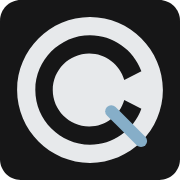
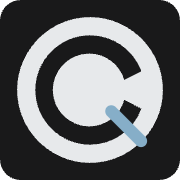
feat(ui): subtle chassis tones and brighter dark panes (#1613)
* feat(ui): add subtle chassis tones and brighten dark panes

* fix(ui): align logo assets and caret contrast with brighter panes

---------

diff --git a/frontend/src/index.css b/frontend/src/index.css
@@ -303,7 +303,7 @@ h3, .prose :where(h3) { letter-spacing: -0.014em; }
      surface and it fails with the measured ratio. */
   --color-background: #0f0f10;          /* Workspace — navigation and AI rail */
   --color-foreground: #e7e9eb;          /* Graphite ink */
-  --color-card: #161617;                /* Pane — softened document and route content */
+  --color-card: #19191a;                /* Pane — shared document, left pane and context rail */
   --color-card-foreground: #e7e9eb;
   --color-card-elevated: #1b1b1d;       /* Raised — popovers and dialogs */
   /* Steel — the single brand AND interaction accent: brand mark, primary
@@ -329,31 +329,13 @@ h3, .prose :where(h3) { letter-spacing: -0.014em; }
   /* Measured against the WORST surface it lands on (the elevated pane),
      not the darkest — sidebar counts, hints and secondary labels inherit it. */
   --color-muted-foreground: #a0a4aa;
-  /* THREE state fills, not one. Until 2026-08-30 `--color-accent`,
-     `--color-secondary` and `--color-muted` were all #1c1d1d, so hover,
-     selected, pressed and a quiet field fill were the same value: a critique
-     measured ΔE-OK 0.0000 between them, which in a 40-row page tree means a
-     hovered row is indistinguishable from the selected one. Each state now has
-     its own rung above the pane (#161617): hover 1.070:1, pressed 1.138:1,
-     selected 1.258:1 — and selection still adds its interactive outline on top.
-     `--color-muted` stays at the hover value on purpose: it is a resting FIELD
-     fill, not a state.
-
-     WIDENED 2026-08-31. The first split shipped pressed at #1e1f21, one step off
-     hover: ΔE-OK 0.0101 at 1.024:1, which a critique could not tell apart from
-     hover in rendered 13px rows. The guard asserted ordering and distinctness
-     but no perceptual floor, so an invisible step passed. Steps are now ΔE-OK
-     0.0292 / 0.0241 / 0.0321, each at or above Paper's equivalent.
-
-     Widening downward was blocked by two other tokens, and the fix was to move
-     THEM rather than hug a floor: at #282a2e the old --color-border-interactive
-     (#71717a) measured 2.97:1 — the edge that IS the selected state, under
-     1.4.11's 3:1 — and --color-status-inactive (#8b8f99) measured 4.44:1. Both
-     were lifted; see their declarations. The dark ladder was compressed because
-     its edge token was too dark, not because the state values were wrong. */
-  --color-accent: #1c1d1d;             /* hover    — 1.070:1 on Pane */
-  --color-pressed: #212226;            /* :active  — 1.138:1 */
-  --color-selected: #282a2e;           /* current destination — 1.258:1 */
+  /* Separate hover, press and selection fills. The brighter Pane (2026-09-12)
+     needs a small hover lift to preserve the visible state step; press and
+     selection retain their existing values and interactive outline.
+     Muted remains a resting field fill, independent of the state ladder. */
+  --color-accent: #1d1e1e;             /* hover — 1.051:1 on Pane */
+  --color-pressed: #212226;            /* :active — 1.106:1 */
+  --color-selected: #282a2e;           /* current destination — 1.222:1 */
   --color-accent-foreground: #e7e9eb;
   /* Semantic aliases — ALWAYS var() references onto the status tokens below,
      never raw values. ~100 callsites say text-success / text-warning /
@@ -528,6 +510,17 @@ h3, .prose :where(h3) { letter-spacing: -0.014em; }
      A notch blacker than the chrome so the card detaches without going
      crushed OLED. */
   --app-chassis: #09090a;
+  --app-chassis-highlight: #101011;
+  --app-chassis-shade: #070708;
+  /* Owner exception (2026-09-12): a restrained multi-grey wash on the outer
+     frame only. One continuous image; panes and controls remain flat. */
+  --app-chassis-tones: linear-gradient(
+    115deg,
+    var(--app-chassis-highlight) 0%,
+    var(--app-chassis) 32%,
+    var(--app-chassis-shade) 68%,
+    var(--app-chassis) 100%
+  );
   /* The login page's own ground. Identical to the chassis here: Graphite's
      composite under the halo measures 7.25:1 and never forced a split. Paper's
      does — see the token there and `@utility login-backdrop`. */
@@ -972,6 +965,8 @@ html[data-dyslexia-spacing="true"] :where(.prose) :where(pre, code) {
      are unaffected: they carry hover and selection with ink and a Steel marker
      line, never a fill. */
   --app-chassis: #ededed;
+  --app-chassis-highlight: #f3f3f3;
+  --app-chassis-shade: #e8e8e8;
   /* The login page keeps the ground its halo was measured against. Canvas left
      it behind on 2026-08-31: at #E8E8E8 the halo composited to #DDDFDF and the
      hero's 18px lead paragraph measured 4.013:1, under 1.4.3's 4.5. This value
@@ -1138,6 +1133,7 @@ html[data-dyslexia-spacing="true"] :where(.prose) :where(pre, code) {
 
 @utility app-chassis {
   background: var(--app-chassis);
+  background-image: var(--app-chassis-tones);
   /* Destinations live on the left chassis. A matching inset there stacked a
      second grey gutter beside the 48px rail; keep the inset on the end and
      bottom so the workspace card still floats off the right and floor. */
@@ -1223,7 +1219,8 @@ html[data-dyslexia-spacing="true"] :where(.prose) :where(pre, code) {
    not a chrome band beside a reading pane. The detached context rail is the
    same composition: one pane, its own first row, no band. */
 @utility app-header {
-  background: var(--app-chassis);
+  /* Let the chassis wash continue through the header without restarting. */
+  background: transparent;
   border-color: var(--color-border);
   height: var(--app-header-height);
   min-height: var(--app-header-height);

diff --git a/frontend/src/app-shell-layout.test.ts b/frontend/src/app-shell-layout.test.ts
@@ -110,10 +110,22 @@ describe('Inset shell tokens', () => {
       ['graphite', darkBlock],
       ['paper', lightBlock],
     ] as const) {
-      expect(
-        contrast(tokenHex(block, '--color-card'), tokenHex(block, '--app-chassis')),
-        `${theme}: the unlined workspace card needs a readable value step`,
-      ).toBeGreaterThanOrEqual(1.08);
+      for (const stop of ['--app-chassis-highlight', '--app-chassis', '--app-chassis-shade']) {
+        expect(
+          contrast(tokenHex(block, '--color-card'), tokenHex(block, stop)),
+          `${theme}: the unlined workspace card needs a readable value step at ${stop}`,
+        ).toBeGreaterThanOrEqual(1.08);
+      }
+    }
+  });
+
+  it('keeps navigation labels and focus indicators readable across the chassis wash', () => {
+    for (const block of [darkBlock, lightBlock]) {
+      for (const stop of ['--app-chassis-highlight', '--app-chassis', '--app-chassis-shade']) {
+        const ground = tokenHex(block, stop);
+        expect(contrast(tokenHex(block, '--color-muted-foreground'), ground), stop).toBeGreaterThanOrEqual(4.5);
+        expect(contrast(tokenHex(block, '--color-primary'), ground), stop).toBeGreaterThanOrEqual(3);
+      }
     }
   });
 
@@ -170,15 +182,6 @@ describe('Inset shell utilities', () => {
     expect(nav).toContain('w-[var(--app-nav-rail-width)]');
   });
 
-  it('completes the canvas frame across the top while panel toolbars keep Chrome', () => {
-    const appHeader = extractBlock(css, '@utility app-header {');
-    const panelToolbar = extractBlock(css, '@utility panel-toolbar {');
-    expect(css).toMatch(/--app-header-bg:\s*#0c0c0d/);
-    expect(css).toMatch(/--app-header-bg:\s*#f5f5f4/);
-    expect(appHeader).toMatch(/background:\s*var\(--app-chassis\)/);
-    expect(appHeader).not.toMatch(/background:\s*var\(--app-header-bg\)/);
-    expect(panelToolbar).toMatch(/background:\s*var\(--app-header-bg\)/);
-  });
 
   it('left navigation, including title and footer chrome, paints the same surface as main', () => {
     const sidebar = extractBlock(css, '@utility app-sidebar {');

diff --git a/frontend/src/shared/components/Logo.tsx b/frontend/src/shared/components/Logo.tsx
@@ -45,7 +45,7 @@ export function Logo({ className, title = 'Compendiq' }: LogoProps) {
       <title>{title}</title>
       <path
         d="M1000,115l0,770c0,63.47 -51.53,115 -115,115l-770,0c-63.47,0 -115,-51.53 -115,-115l0,-770c0,-63.47 51.53,-115 115,-115l770,0c63.47,0 115,51.53 115,115Z"
-        fill="#161617"
+        fill="#19191a"
       />
       <path
         d="M500,95c222.176,-0 405,182.824 405,405c0,222.176 -182.824,405 -405,405c-222.176,0 -405,-182.824 -405,-405c-0,-222.176 182.824,-405 405,-405Zm285.424,301.118c-43.57,-119.717 -158.035,-199.868 -285.434,-199.868c-166.632,0 -303.75,137.118 -303.75,303.75c0,166.632 137.118,303.75 303.75,303.75c127.399,0 241.863,-80.151 285.434,-199.868l-95.074,-48.532c-24.669,86.814 -104.537,147.15 -194.789,147.15c-111.088,0 -202.5,-91.412 -202.5,-202.5c0,-111.088 91.412,-202.5 202.5,-202.5c90.251,0 170.12,60.336 194.789,147.15l95.074,-48.532Z"

diff --git a/frontend/src/stores/theme-store.ts b/frontend/src/stores/theme-store.ts
@@ -115,7 +115,7 @@ export const THEMES: ThemeMeta[] = [
     // Hex values must match the rendered surfaces in index.css — the picker
     // chip is the only way users see a surface before applying the theme, and
     // a test compares these against the tokens rather than trusting either.
-    preview: { bg: '#0f0f10', card: '#161617', primary: '#86aec8', accent: '#e7e9eb' },
+    preview: { bg: '#0f0f10', card: '#19191a', primary: '#86aec8', accent: '#e7e9eb' },
   },
   {
     id: 'paper',

diff --git a/frontend/index.html b/frontend/index.html
@@ -121,9 +121,10 @@
         height: 100vh;
         overflow: hidden;
         background: var(--app-chassis, #09090a);
+        background-image: var(--app-chassis-tones, none);
         pointer-events: none;
       }
-      html:not(.dark) #boot-shell { background: var(--app-chassis, #e8e8e8); }
+      html:not(.dark) #boot-shell { background-color: var(--app-chassis, #ededed); }
       .boot-sr {
         position: absolute;
         width: 1px;

diff --git a/frontend/src/shared/lib/collab-colors.ts b/frontend/src/shared/lib/collab-colors.ts
@@ -10,7 +10,7 @@ export const COLLAB_CARET_PALETTE = [
   '#8A5A3C', // terracotta
   '#7A6238', // bronze
   '#C45C26', // burnt orange
-  '#9A4A6B', // dusty rose
+  '#9C4D6E', // dusty rose
   '#7B5A8B', // muted purple
   '#3D7A80', // ocean
   '#6B6B2B', // olive

diff --git a/DESIGN.md b/DESIGN.md
@@ -9,13 +9,13 @@ colors:
   canvas-graphite: "#09090a"
   chrome-graphite: "#0c0c0d"
   workspace-graphite: "#0f0f10"
-  pane-graphite: "#161617"
+  pane-graphite: "#19191a"
   raised-graphite: "#1b1b1d"
   ink-graphite: "#e7e9eb"
   muted-ink-graphite: "#a0a4aa"
   border-graphite: "#222225"
   border-interactive-graphite: "#7c7c85"
-  hover-graphite: "#1c1d1d"
+  hover-graphite: "#1d1e1e"
   pressed-graphite: "#212226"
   selected-graphite: "#282a2e"
   canvas-paper: "#ededed"
@@ -148,7 +148,7 @@ components:
 
 Compendiq is a calibrated workspace, not a room and not a brand film. Linear sets the bar for timing, keyboard coverage and type scale; Plane for calm neutral surfaces and row density; Notion for the document surface. The standing preference is the category convention executed at full fidelity — a first-rate modern workspace application, without irony, pastiche or smuggled quirk.
 
-Hierarchy comes from the eight-role surface ladder, type weight, and space. Motion is a 120ms `ease-out` colour change on state, never entrance choreography. Brand lives in Workspace Steel, in the interactive edge, and in what is refused: no lift, no gradient fill, no in-page glass, no colour as the only channel for state.
+Hierarchy comes from the eight-role surface ladder, type weight, and space. Motion is a 120ms `ease-out` colour change on state, never entrance choreography. Brand lives in Workspace Steel, in the interactive edge, and in what is refused: no lift, no gradient fill on panes or controls, no in-page glass, no colour as the only channel for state. The outer chassis alone carries the owner-requested subtle grey wash.
 
 Two themes are a product requirement. Graphite (`:root`) is the dark instrument; Paper is the light one. Neither is a fallback. Default follows the OS; a manual override persists per user.
 
@@ -172,7 +172,7 @@ Workspace Steel is the single brand and interaction accent. Semantic hues are re
 
 Eight production roles (ADR-010). Graphite first, Paper sibling second.
 
-- **Canvas** (`canvas-graphite` / `canvas-paper`): viewport gutter, destination rail, top app header. Draws the workspace card by value, not by a line.
+- **Canvas** (`canvas-graphite` / `canvas-paper`): base colour for viewport gutter, destination rail, top app header. The chassis adds a restrained multi-grey wash; the base remains the overscroll and first-paint fallback. Draws the workspace card by value, not by a line.
 - **Chrome** (`chrome-graphite` / `chrome-paper`): internal panel-header bands that still need a strip (Library results headers). Not the outer frame.
 - **Workspace** (`workspace-graphite` / `workspace-paper`): shell fill inside the card; Graphite navigation/AI rail ground.
 - **Pane** (`pane-graphite` / `pane-paper`): document, left navigation, context rail. Paper Pane is pure white.
@@ -229,7 +229,7 @@ The shell is an inset card on Canvas. Destinations live on the left chassis; the
 - **md (768px):** 12px inset, 12px shell radius, 4px rail gap.
 - **xl (1280px):** 16px inset, 14px shell radius, 6px rail gap. Do not invent a third breakpoint ladder.
 
-Left navigation, document pane, and context rail share Pane. The top header, destination rail, and bottom rail paint Canvas so the outer frame is one colour. Paper document, left nav, and context rail are pure white.
+Left navigation, document pane, and context rail share Pane. The top header is transparent over the chassis so the header, destination rail, and bottom rail share one continuous tonal wash, without restarting the gradient at their boundaries. Paper document, left nav, and context rail are pure white.
 
 Density is Plane-like: tight groups, generous separation, more space above a heading than below it. Controls are 32px tall so a button, an input, and a 28px toolbar chip share one row.
 
@@ -251,6 +251,7 @@ Raised is what leaves the page. Dialogs and opaque overlays use the Raised fill,
 ### Named exceptions
 
 - **Login halo.** The one declared in-page decoration: primary (or AI violet) disc at opacity 0.08, 120px blur, `z-index: -10`. Measured so muted hero ink still clears 4.5:1 on the composite. Ceiling 0.08; 0.12 breaches. Nowhere else.
+- **Chassis grey wash (owner request, 2026-09-12).** Static, low-contrast shading on the outer frame only: Paper blends `#F3F3F3` → base `#EDEDED` → `#E8E8E8` → base; Graphite blends `#101011` → base `#09090A` → `#070708` → base. No texture, animation, shadow, or coloured glow. Every stop must keep rail labels at ≥4.5:1, focus indicators at ≥3:1, and Pane separation at ≥1.08:1. The owner's dark-mode follow-up brightens the shared main, left and right pane to `#19191A`; hover lifts to `#1D1E1E` to stay visible. Panes remain flat; Paper and the separate login ground are unchanged.
 
 **The Overlay-Only Shadow Rule.** In-flow surfaces cast nothing. `--shadow-overlay` is for things that leave the page.
 
@@ -334,7 +335,7 @@ The material that leaves the page. 12px blur, 82–90% Raised, rim at 18% intera
 ### Don't:
 
 - **Don't** lift, scale, or grow a shadow on hover. That is the neumorphic tell.
-- **Don't** paint gradient fills. Steel start and end are the same value on purpose.
+- **Don't** paint gradient fills on panes or controls. The chassis grey wash is the sole outer-frame exception; Steel start and end remain the same value.
 - **Don't** put glass or `backdrop-blur` on in-page chrome.
 - **Don't** use colour as the only channel for state.
 - **Don't** use Steel for embedding, telemetry, or idle pipeline status.

diff --git a/CLAUDE.md b/CLAUDE.md
@@ -668,6 +668,13 @@ The two Steel values are tuned independently for their surfaces: Graphite's `#86
 
 **The authenticated app sits in an inset shell on `md+`.** `--app-chassis` is the viewport ground (`body` overscroll included) and paints the top app header too, completing one continuous outer frame on all four sides. The neutral Chrome token `--app-header-bg` (cool grey in Graphite, near-neutral in Paper) has exactly one home left: the Library results header band, where — since v0.9's second pass took the panel's ring and the row's own `border-b` off — the fill IS that header's boundary. A pane's own first row inherits the pane, which is why both `.app-sidebar .panel-toolbar` and `.app-context-rail .panel-toolbar` are transparent. With no fill and no hairline, a chrome row is read off the control in it — which is why the Pages rail's space selector carries a Workspace fill (`bg-background`, the only surface darker than Pane in BOTH themes at 1.06:1, and the one that keeps hover darkening rather than lightening). The command palette remains available through Ctrl/Cmd+K without a persistent search bar. Left nav and main content sit in a brighter rounded workspace card (`--app-shell-*`) below the header. Outline, Details and Assistant share a detached context rail (`--app-rail-*`) beside that card. **Neither carries a border (v1.1):** the inset, the radius and the Pane-over-Canvas step draw both, `--app-shell-border-width` is deleted, and `app-shell-layout.test.ts` fails if a border in any spelling returns — it holds a 1.08:1 floor under that value step instead, because an unlined card fails silently. Its `--app-rail-gap` gutter is 4px at `md` and 6px at `xl`; the gutter owns the inspector's visible three-dot separator and is the mouse, keyboard and double-click resize target, rather than borrowing an invisible strip from inside the panel. Below `md` inset, radius and gap are 0 (edge-to-edge). Retune those tokens; do not scatter equivalent padding across layout components. **`/login` does not share the frame:** it paints `--app-login-ground` via `@utility login-backdrop` (`#FAFAF9` in Paper, the chassis value in Graphite), because its halo's measured AA floor was calibrated against a near-white ground and the grey frame broke it at 4.013:1 — `login-halo-surface.test.ts` owns that token, so the workspace frame can move without dragging the login hero under AA (ADR-010 v1.1).
 
+**Chassis-only tonal exception (owner request, 2026-09-12; ADR-010 v1.6).** The outer frame carries a static multi-grey wash through `--app-chassis-tones`, using `--app-chassis-highlight`, the unchanged `--app-chassis` base, and `--app-chassis-shade`. `.app-header` is transparent so the image stays continuous across header and rails rather than restarting. Paper ranges from `#F3F3F3` to `#E8E8E8` around `#EDEDED`; Graphite from `#101011` to `#070708` around `#09090A`. The owner's dark-mode follow-up lifts the shared main, left and right pane from `#161617` to `#19191A`, with hover adjusted to `#1D1E1E` so the state stays visible. All three panes use `--color-card`, never local overrides. Paper and login are unchanged. `--surface-backdrop` stays the flat overscroll fallback. Measure rail-label, focus-indicator and unlined-pane contrast against every chassis stop, not just the base.
+
+Pane retunes also require updating the brand tile in `Logo.tsx`, all four
+static SVG mirrors and the five raster icon assets. Recheck the dedicated
+collaboration-caret palette against both panes; the shell/theme suites alone
+do not cover logo parity or caret contrast.
+
 **Exactly one real shadow exists.** `--shadow-overlay` (offset + soft blur) is carried by `nm-card-elevated` and `nm-popover-glass`, for content that genuinely floats above the page: popovers, dropdowns, dialogs, the command palette, toasts. In-page command surfaces such as Library search stay flat and use the shared interactive border for their boundary. Every other in-page pane that wants emphasis earns it from position, spacing and heading weight. The retired `--nm-shadow-*` / `--nm-highlight-*` tokens still exist but resolve to `transparent`, so any missed callsite renders flat rather than leaving one embossed control behind.
 
 **No lift, no scale, no in-flow glass.** Hover and press are background/border changes. `translateY` on hover, `scale` on press and `backdrop-blur` on an in-flow pane are all retired. Blur is reserved for modal scrims (`fixed inset-0 bg-black/NN`) and floating `nm-popover-glass` popovers. Popovers use a softened border with reduced contrast (18% of the interactive edge) and frosted glass with 12px blur in both dark (90% fill) and bright (82% fill) modes so the glass effect is visible in light mode while keeping text readable. `prefers-reduced-transparency` makes the fill opaque and removes blur. Theme tests composite the fill over black and white images in both themes, verifying ≥4.5:1 text contrast. Dialogs stay opaque `nm-card-elevated`.

diff --git a/docs/ARCHITECTURE-DECISIONS.md b/docs/ARCHITECTURE-DECISIONS.md
@@ -1610,6 +1610,39 @@ Paper so the trough is a light step under the white active chip.
 `workspace-themes.test.ts` pins the exact chassis value. Rail-label 4.5:1 on
 Canvas still holds.
 
+### v1.6 — restrained multi-grey chassis (2026-09-12)
+
+**Owner decision.** Give the app chassis a slight gradient effect using more than one grey.
+
+The outer frame gains a static four-stop wash through three close grey values,
+returning to the base at the final stop. Paper keeps its `#EDEDED` base between
+`#F3F3F3` and `#E8E8E8`; Graphite keeps `#09090A` between `#0C0C0D` and
+`#070708`. The shared `--app-chassis-tones` image is painted by `.app-chassis`
+and the first-paint boot shell once theme CSS is available. The top header is
+transparent so the wash continues into the rails without a seam.
+
+This is a narrow exception to v0.6, not a return to gradient cards: panes,
+controls, login ground, layout and interactions are unchanged. Body overscroll
+keeps the flat base. `app-shell-layout.test.ts` measures every stop for ≥4.5:1
+rail-label contrast, ≥3:1 focus-indicator contrast and ≥1.08:1 separation from
+the unlined document pane.
+
+**Dark-mode follow-up (same day).** The owner asks for the same chassis effect
+in dark mode and slightly brighter, identically coloured main, left and right
+panes. Graphite's highlight lifts to `#101011` to make the wash more apparent;
+the shared `--color-card` lifts from `#161617` to `#19191A`. Hover lifts from
+`#1C1D1D` to `#1D1E1E` to retain ≥1.05:1 contrast against the brighter pane;
+pressed and selected remain distinct at their existing values. The theme
+picker preview follows the pane token. Paper, login, layout and typography
+are unchanged.
+
+**Dependent palette fixes (#1613).** The brand tile follows `--color-card`
+across `Logo.tsx`, all four SVG mirrors and the PNG/ICO icon variants.
+The dusty-rose collaboration caret moves to `#9C4D6E`: the old swatch measured
+2.98:1 on the brighter pane; the replacement measures 3.10:1 on Graphite and
+5.68:1 on Paper. The existing logo-parity and caret-contrast guards remain
+unchanged.
+
 ---
 ## ADR-011: Docker Deployment Architecture
 

diff --git a/PRODUCT.md b/PRODUCT.md
@@ -109,7 +109,7 @@ benchmark numbers, no named reference customers. Future work must not invent the
   single brand and interaction accent. Violet remains AI, amber warning, green success,
   and red failure; these semantic colors are not alternate accents. Graphite's document
   pane stays off near-black to reduce long-session glare. **Paper's document pane, left navigation, and context rail are pure white (`#FFFFFF`)** (owner decisions, 2026-08-30, 2026-09-07, 2026-09-11, 2026-09-12):
-  the document, left navigation sidebar, and right context rail are `#FFFFFF`; the frame — top app header, left destination rail, and bottom rail — paints the light chassis tone, pinned to `#EDEDED` on 2026-09-12 so the frame still reads as the ground the workspace card sits on rather than as a grey border drawn around it.
+  the document, left navigation sidebar, and right context rail are `#FFFFFF`; the frame — top app header, left destination rail, and bottom rail — uses `#EDEDED` as its base. A later owner request on 2026-09-12 adds subtle variation through several close greys, continuous across the frame, rather than one uniform grey. Both themes keep this treatment restrained and leave content panes flat.
 - **Colour is never the only channel for state** (2026-08-30, reaffirmed 2026-08-31 when embedding left the hue vocabulary and became body ink plus a progress affordance). Seven semantic hues cannot be mutually
   separated under colour-vision deficiency while every one clears WCAG AA on a white pane — that is
   arithmetic, not an oversight — so every status indicator also carries an icon, shape, or accessible
